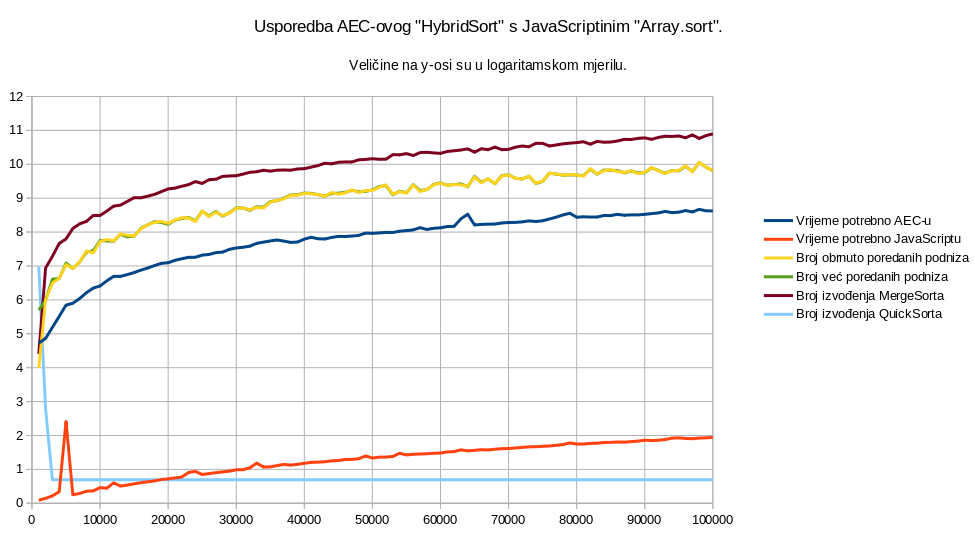
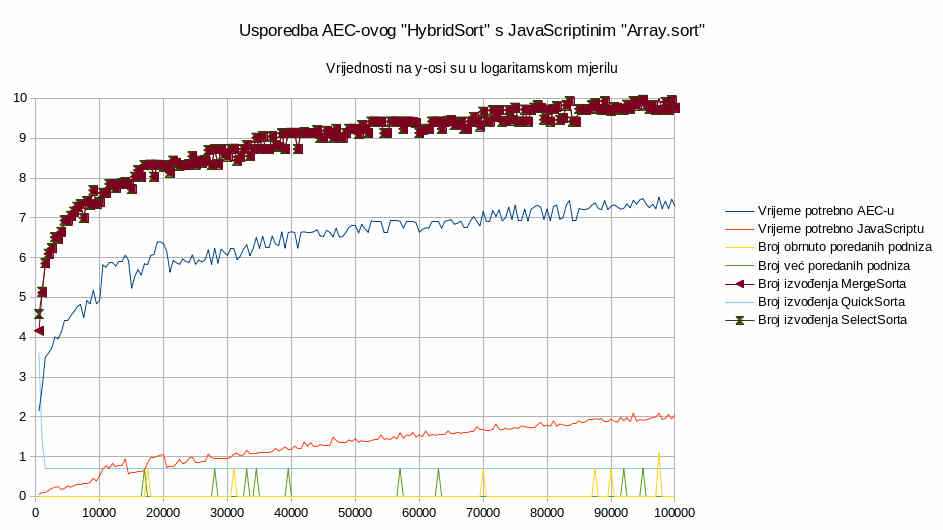
Added SelectionSort for small arrays to HybridSort

diff --git a/HybridSort/HybridSort.js b/HybridSort/HybridSort.js
@@ -1,18 +1,18 @@
 /*
- * Ovo je program za NodeJS JavaScript virtualnu masinu koji testira program
+ * Ovo je program za NodeJS JavaScript virtualnu mašinu koji testira program
  * "HybridSort.aec".
  */
 
 const {PerformanceObserver, performance} = require('perf_hooks');
-// Inace ce se NodeJS buniti kad pozovemo "performance.now()", sto je
-// JavaScriptin ekvivalent C-ovoj naredbi "clock()" (vraca broj milisekundi od
-// pocetka izvrsavanja programa).
+// Inače će se NodeJS buniti kad pozovemo "performance.now()", što je
+// JavaScriptin ekvivalent C-ovoj naredbi "clock()" (vraća broj milisekundi od
+// početka izvršavanja programa).
 let velicina_niza, niz,
     memory = new WebAssembly.Memory({
       initial : 1,
       maximum : 64
-    }) // Ogranici velicinu dijeljene memorije izmedu JavaScripta i AEC-a na 64
-       // stranice = 4 MB. To je u vrh glave dovoljno, i, ako se prekoraci, znaci
+    }) // Ograniči velicinu dijeljene memorije između JavaScripta i AEC-a na 64
+       // stranice = 4 MB. To je u vrh glave dovoljno, i, ako se prekorači, znači
        // da je neki bug u programu i da memorija negdje curi.
     ,
     gdje_se_nalazi_niz; // Potrebno da usporedimo jesu li JavaScriptin "sort" i
@@ -43,7 +43,7 @@ function zavrsi_mjerenje_vremena() {
   trajanjeSortiranja = performance.now() - vrijemePocetkaSortiranja;
 }
 let broj_obrnuto_poredanih_podniza, broj_vec_poredanih_podniza,
-    broj_pokretanja_QuickSorta, broj_pokretanja_MergeSorta;
+    broj_pokretanja_QuickSorta, broj_pokretanja_MergeSorta, broj_pokretanja_SelectSorta;
 function izvijesti_o_obrnuto_poredanim_nizovima(n) {
   broj_obrnuto_poredanih_podniza = n;
 }
@@ -53,6 +53,9 @@ function izvijesti_o_pokretanju_QuickSorta(n) {
 }
 function izvijesti_o_pokretanju_MergeSorta(n) {
   broj_pokretanja_MergeSorta = n;
+}
+function izvijesti_o_pokretanju_SelectSorta(n) {
+  broj_pokretanja_SelectSorta = n;
 }
 function izvijesti_JavaScript_o_nedostatku_memorije() {
   process.exit(1); // Imate bolju ideju?
@@ -65,9 +68,9 @@ let izvozi_u_AEC = {
   stack_pointer : new WebAssembly.Global(
       {value : "i32", mutable : true},
       0), //"stack_pointer" je varijabla koju koristi AEC-ov compiler. Za sada
-          //on pretpostavlja da je ona dijeljena izmedu AEC-a i JavaScripta, da
-          //ga bude lakse debugirati (ako je tocno compilirao, ona, kad god
-          //JavaScript dobiva kontrolu, mora sadrzavati nulu).
+          //on pretpostavlja da je ona dijeljena između AEC-a i JavaScripta, da
+          //ga bude lakše debugirati (ako je točno compilirao, ona, kad god
+          //JavaScript dobiva kontrolu, mora sadržavati nulu).
   daj_velicinu_niza : daj_velicinu_niza,
   kopiraj_niz_na_adresu : kopiraj_niz_na_adresu,
   printString : printString,
@@ -79,6 +82,7 @@ let izvozi_u_AEC = {
   izvijesti_o_poredanim_nizovima : izvijesti_o_poredanim_nizovima,
   izvijesti_o_pokretanju_QuickSorta : izvijesti_o_pokretanju_QuickSorta,
   izvijesti_o_pokretanju_MergeSorta : izvijesti_o_pokretanju_MergeSorta,
+  izvijesti_o_pokretanju_SelectSorta : izvijesti_o_pokretanju_SelectSorta,
   izvijesti_JavaScript_o_nedostatku_memorije :
       izvijesti_JavaScript_o_nedostatku_memorije,
   printFloat : printFloat
@@ -88,9 +92,9 @@ WebAssembly.instantiate(wasmDatoteka, {JavaScript : izvozi_u_AEC})
       const izvozi_iz_AECa = pokazivac_na_AEC_program.instance.exports;
       const pocetna_AEC_funkcija = izvozi_iz_AECa.pocetna_AEC_funkcija;
       console.log(
-          "Velicina niza\tVrijeme potrebno AEC-u\tVrijeme potrebno JavaScriptu\tBroj obrnuto poredanih podniza\tBroj vec poredanih podniza\tBroj izvodenja MergeSorta\tBroj izvodenja QuickSorta");
-      for (velicina_niza = 1000; velicina_niza <= 100000;
-           velicina_niza += 1000) {
+          "Veličina niza\tVrijeme potrebno AEC-u\tVrijeme potrebno JavaScriptu\tBroj obrnuto poredanih podniza\tBroj već poredanih podniza\tBroj izvođenja MergeSorta\tBroj izvođenja QuickSorta\tBroj izvođenja SelectSorta");
+      for (velicina_niza = 500; velicina_niza <= 100000;
+           velicina_niza += 500) {
         niz = new Int32Array(velicina_niza);
         for (let i = 0; i < velicina_niza; i++)
           niz[i] = (Math.random() - 1 / 2) * velicina_niza * 2;
@@ -112,6 +116,7 @@ WebAssembly.instantiate(wasmDatoteka, {JavaScript : izvozi_u_AEC})
                     Math.log(broj_obrnuto_poredanih_podniza + 1) + "\t" +
                     Math.log(broj_vec_poredanih_podniza + 1) + "\t" +
                     Math.log(broj_pokretanja_MergeSorta + 1) + "\t" +
-                    Math.log(broj_pokretanja_QuickSorta + 1));
+                    Math.log(broj_pokretanja_QuickSorta + 1) + "\t" +
+                    Math.log(broj_pokretanja_SelectSorta + 1));
       }
     });
